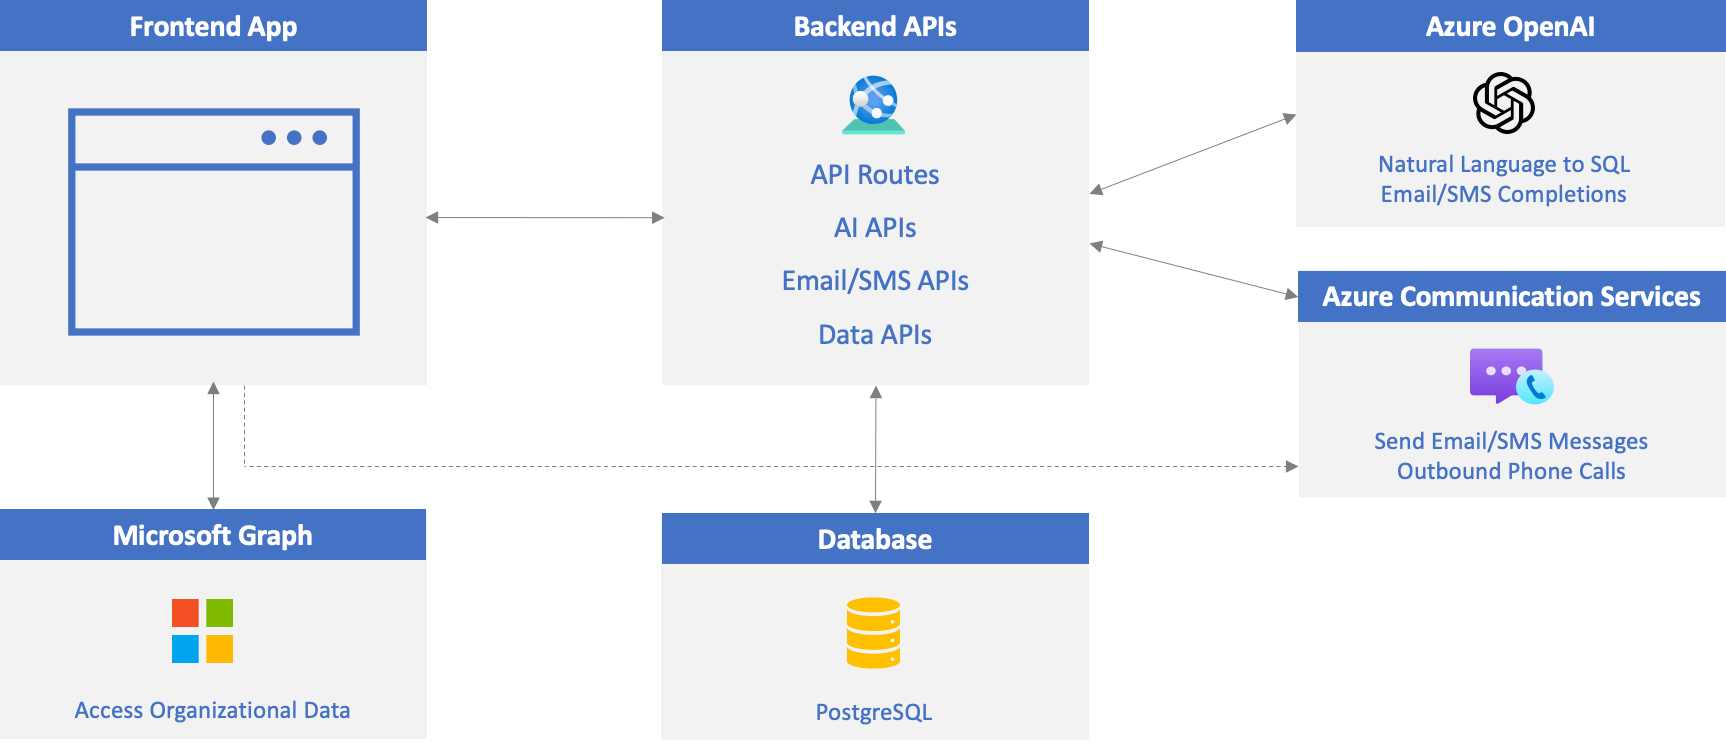
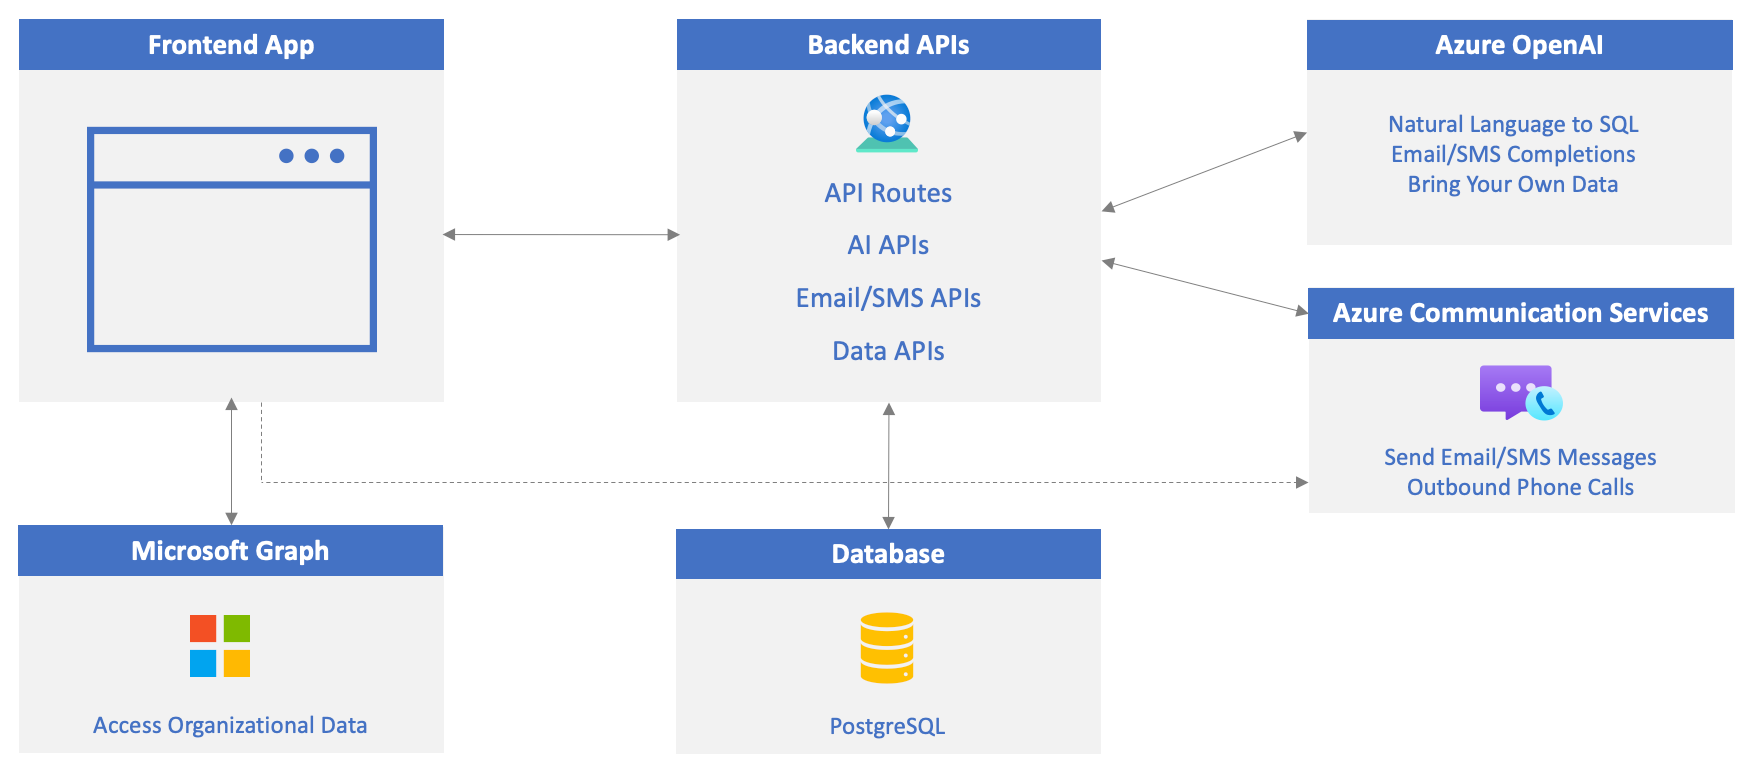
Update graphic

diff --git a/docs/dev/tutorials/openai-acs-msgraph/includes/00-Overview.md b/docs/dev/tutorials/openai-acs-msgraph/includes/00-Overview.md
@@ -4,7 +4,7 @@
 
 This tutorial demonstrates how Azure OpenAI, Azure Communication Services, and Microsoft Graph/Microsoft Graph Toolkit can be integrated into Line of Business (LOB) applications to enhance user productivity, elevate the user experience, and take LOB apps to the next level. 
 
-- **AI**: Enable users to ask questions in natural language and convert their answers to SQL that can be used to query a database, allow users to define rules that can be used to automatically generate email and SMS messages, and learn how natural language can be used to retrieve data from custom data and documents. Azure OpenAI is used for these features.
+- **AI**: Enable users to ask questions in natural language and convert their answers to SQL that can be used to query a database, allow users to define rules that can be used to automatically generate email and SMS messages, and learn how natural language can be used to retrieve data from your own custom data sources. Azure OpenAI is used for these features.
 - **Communication**: Enable in-app phone calling to customers and Email/SMS functionality using Azure Communication Services.
 - **Organizational Data**: Pull in related organizational data that users may need (documents, chats, emails, calendar events) as they work with customers to avoid context switching. Providing access to this type of organizational data reduces the need for the user to switch to Outlook, Teams, OneDrive, other custom apps, their phone, etc. since the specific data and functionality they need is provided directly in the app. Microsoft Graph and Microsoft Graph Toolkit are used for this feature.
 
